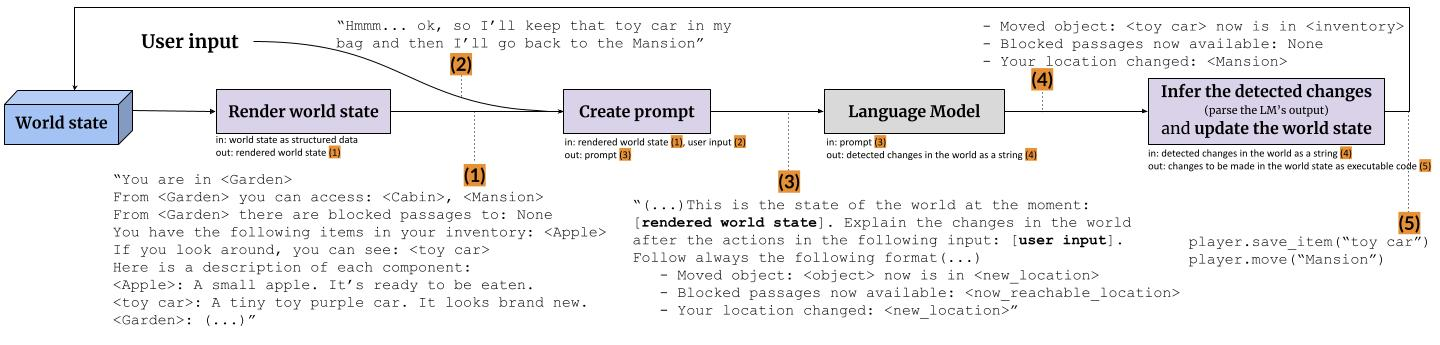
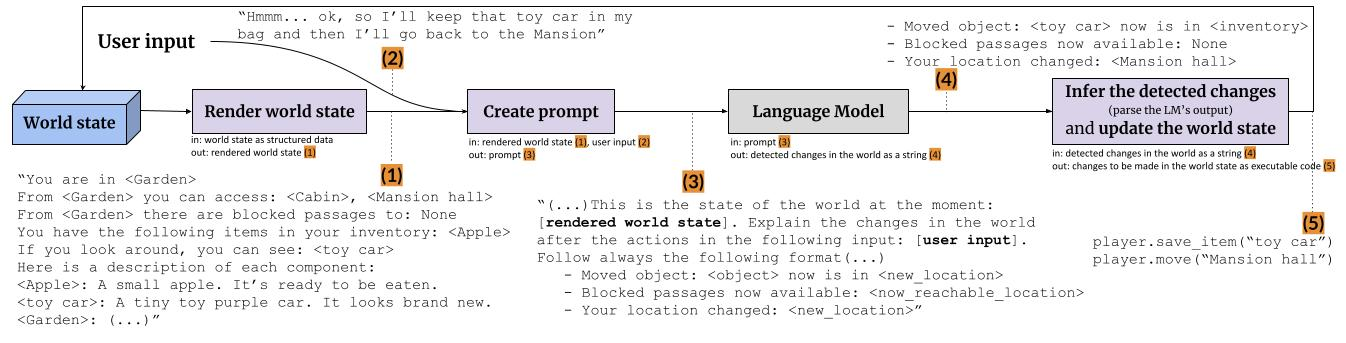
Bug fix for render_world. Updated pipeline image

Changed region(s): [[0.0, 0.0, 0.9985, 0.5248], [0.0, 0.4665, 0.8113, 0.9621], [0.8113, 0.6122, 0.9985, 0.7872]]

diff --git a/world.py b/world.py
@@ -56,6 +56,7 @@ class Location (Component):
     if location in self.connecting_locations:
       if location.name not in self.blocked_locations:
         self.blocked_locations[location.name] = (location, obstacle, symmetric)
+        self.connecting_locations = [x for x in self.connecting_locations if x is not location]
       else:
         raise Exception(f"Error: A blocked passage to {location.name} already exists")
     else:
@@ -66,10 +67,13 @@ class Location (Component):
 
     In case that the block was symmetric, self will be added to the connecting locations of location.
     """
-    self.connecting_locations += [location]
-    if self.blocked_locations[location.name][2]:
-      location.connecting_locations += [self]
-    del self.blocked_locations[location.name]
+    if self.blocked_locations[location.name]:
+      self.connecting_locations += [location]
+      if self.blocked_locations[location.name][2]:
+        location.connecting_locations += [self]
+      del self.blocked_locations[location.name]
+    else:
+      raise Exception("Error: That is not a blocked passage")
 
 class Character (Component):
   """A class to represent a character."""
@@ -175,23 +179,42 @@ class World:
     If detail_components is False, then the descriptions for each component are not included.
     """
     player_location = self.player.location
+    reachable_locations = [f"<{p.name}>" for p in player_location.connecting_locations]
+    blocked_passages = [f"<{p}> blocked by <{player_location.blocked_locations[p][1].name}>" for p in player_location.blocked_locations.keys()]
+    characters_in_the_scene = [character for character in self.characters.values() if character.location is player_location]
 
+    
     world_description = f'You are in <{player_location.name}>\n'
-    world_description += f'From <{player_location.name}> you can access: {(", ").join([f"<{p.name}>" for p in player_location.connecting_locations])}\n'
-    world_description += f'From <{player_location.name}> there are blocked passages to: {(", ").join([f"<{p}> blocked by <{player_location.blocked_locations[p][1].name}>" for p in player_location.blocked_locations.keys()])}\n'
-    world_description += f'You have the following items in your inventory: {(", ").join([f"<{i.name}>" for i in self.player.inventory])}\n'
-    world_description += f'If you look around, you can see: {(", ").join([f"<{i.name}>" for i in player_location.items])}\n'
+    
+    if reachable_locations:
+      world_description += f'From <{player_location.name}> you can access: {(", ").join(reachable_locations)}\n'
+    else:
+      world_description += f'From <{player_location.name}> you can access: None\n'
 
-    other_characters = [f"<{c_name}>" for c_name in self.characters
-                        if self.characters[c_name].location is player_location]
-    if other_characters:
-      world_description += f'You can also see some people: {(", ").join(other_characters)}'
+    if blocked_passages:
+      world_description += f'From <{player_location.name}> there are blocked passages to: {(", ").join(blocked_passages)}\n'
+    else:
+      world_description += f'From <{player_location.name}> there are blocked passages to: None\n'
+
+    if self.player.inventory:
+      world_description += f'You have the following items in your inventory: {(", ").join([f"<{i.name}>" for i in self.player.inventory])}\n'
+    else:
+      world_description += f'You have the following items in your inventory: None\n'
+
+    if player_location.items:
+      world_description += f'If you look around, you can see the following items: {(", ").join([f"<{i.name}>" for i in player_location.items])}\n'
+    else:
+      world_description += f'If you look around, you can see the following items: None\n'
+      
+    if characters_in_the_scene:
+      world_description += f'You can see some people: {(", ").join([f"<{c.name}>" for c in characters_in_the_scene])}'
+    else:
+      world_description += f'You can see some people: None'
 
     details = ""
     if detail_components:
       items_in_the_scene = player_location.items + self.player.inventory + [blocked_values[1] for blocked_values in player_location.blocked_locations.values() if isinstance(blocked_values[1], Item)]
-      characters_in_the_scene = [character for character in self.characters.values() if character.location is player_location]
-
+      
       details += "\nHere is a description of each component.\n"
       details += f"<{player_location.name}>: This is the player's location. {('. ').join(player_location.descriptions)}.\n"
       details += "Characters:\n"
@@ -202,6 +225,8 @@ class World:
           if len(character.inventory)>0:
             details += f" This character has the following items: {(', ').join([f'<{i.name}>' for i in character.inventory])}\n"
             items_in_the_scene+= character.inventory
+          else:
+            details += "\n"
       if len(items_in_the_scene)>0:
         details+="Objects:\n"
         for item in items_in_the_scene:

diff --git a/README.md b/README.md
@@ -64,5 +64,10 @@ Coming soon!
 If you use some part of this work in your research, please cite:
 
 ```
-Coming soon!
+@inproceedings{gongora2024payador,
+  title={PAYADOR: A Minimalist Approach to Grounding Language Models on Structured Data for Interactive Storytelling and Role-playing Games},
+  author={G{\'o}ngora, Santiago and Chiruzzo, Luis and M{\'e}ndez, Gonzalo and Gerv{\'a}s, Pablo},
+  booktitle={Proceedings of The 15th International Conference on Computational Creativity},
+  year={2024}
+}
 ```
